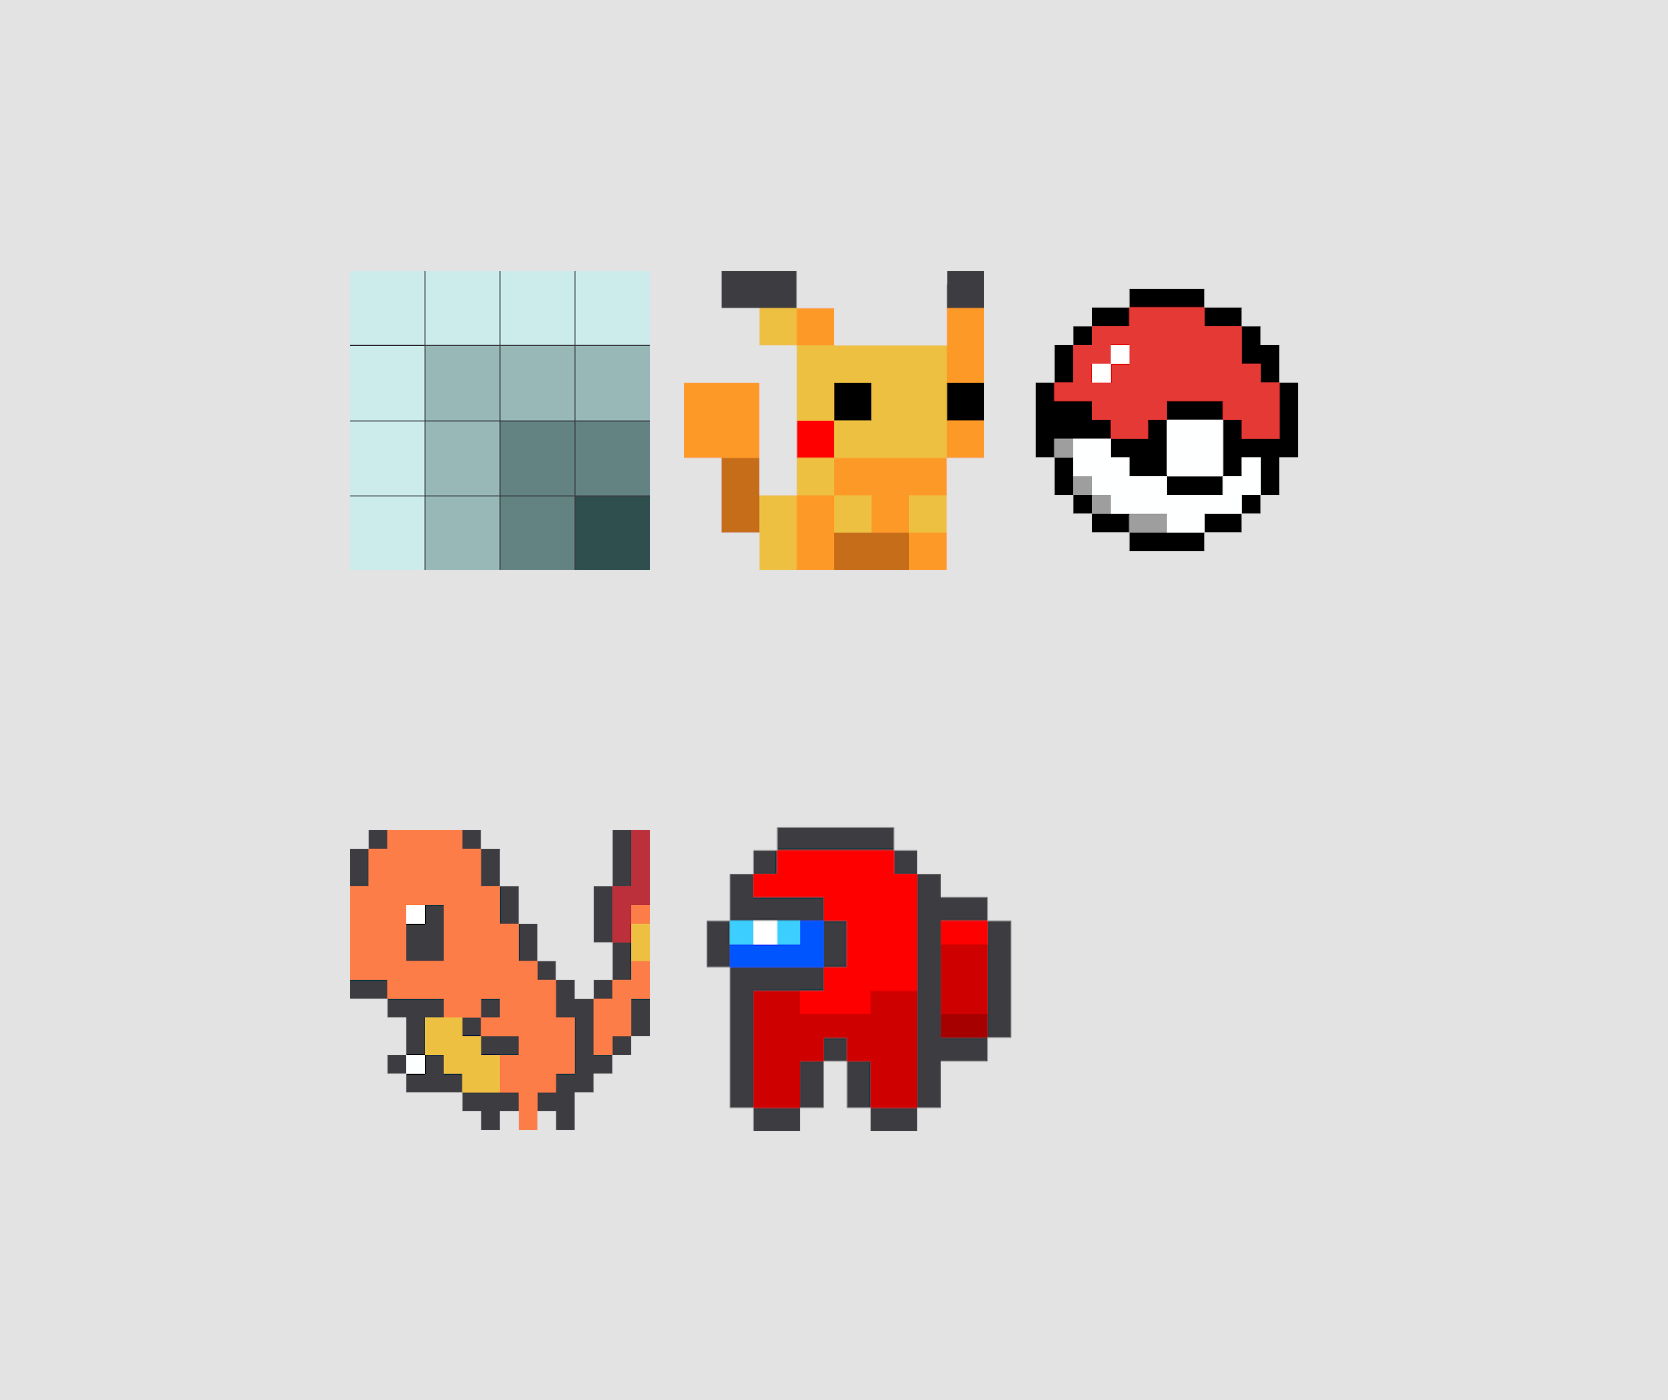
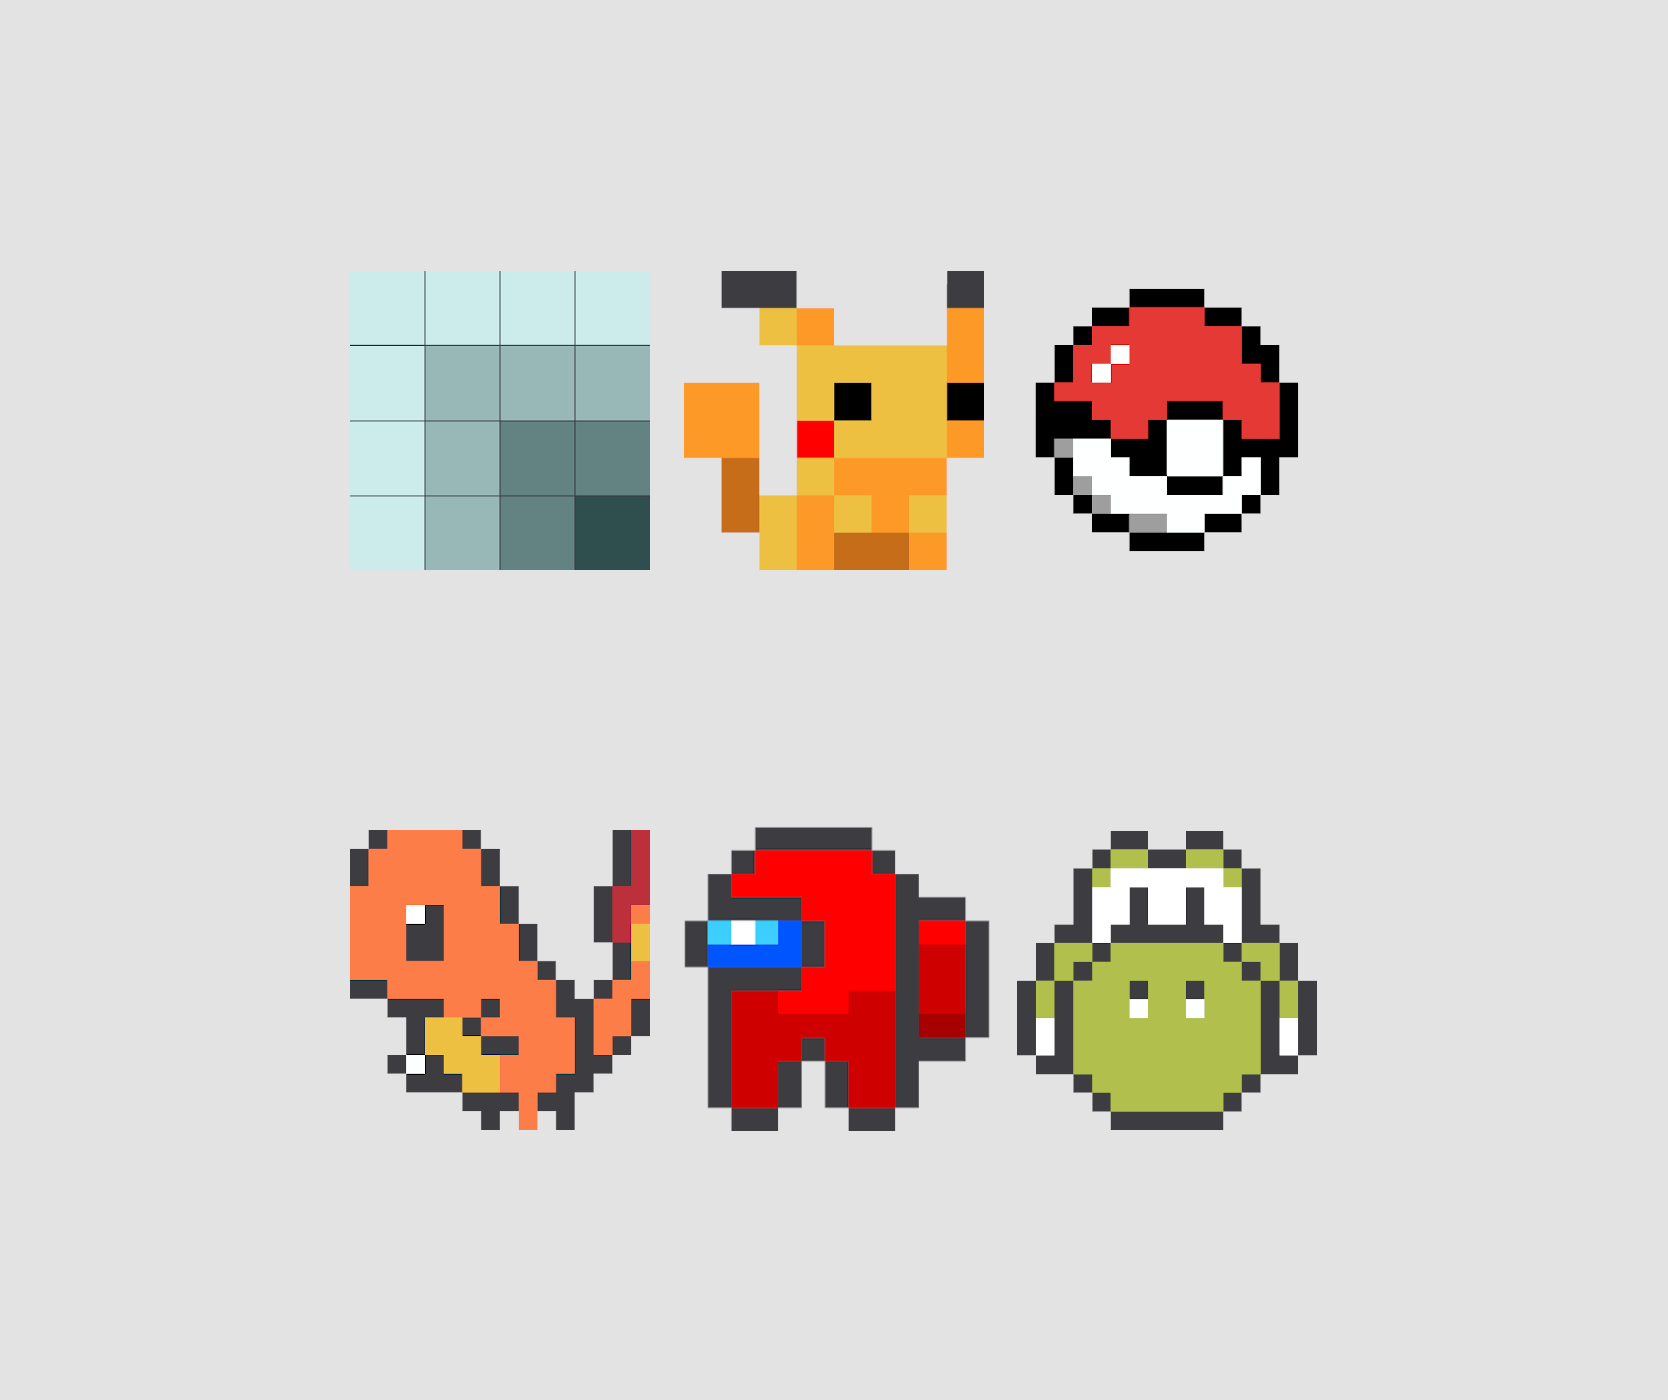
Drawing Yoshi

Changed region(s): [[0.4053, 0.5836, 0.8106, 0.8293]]

diff --git a/src/view/components/Post/6/Post6Hooks.tsx b/src/view/components/Post/6/Post6Hooks.tsx
@@ -261,6 +261,61 @@ const getBackgroundColor16x16AmongUs = (x : number, y : number) => {
     return '';
 }
 
+const getBackgroundColor16x16Yoshi = (x : number, y : number) => {
+    const whiteCoordinates = [ 
+        { x : 2, y : 5 }, { x : 2, y : 6 }, { x : 2, y : 7 }, { x : 2, y : 8 }, { x : 2, y : 9 }, { x : 2, y : 10 }, 
+        { x : 3, y : 4 }, { x : 3, y : 5 }, { x : 3, y : 7 }, { x : 3, y : 8 }, { x : 3, y : 10 }, { x : 3, y : 11 }, 
+        { x : 4, y : 4 }, { x : 4, y : 5 }, { x : 4, y : 7 }, { x : 4, y : 8 }, { x : 4, y : 10 }, { x : 4, y : 11 }, 
+        { x : 5, y : 4 }, { x : 5, y : 11 }, 
+        { x : 10, y : 1 }, { x : 10, y : 14 }, 
+        { x : 11, y : 1 }, { x : 11, y : 14 }, 
+    ];
+
+    const blackCoordinates = [ 
+        {x : 0, y: 5}, {x : 0, y: 6}, {x : 0, y: 9}, {x : 0, y: 10}, 
+        {x : 1, y: 4}, {x : 1, y: 7}, {x : 1, y: 8}, {x : 1, y: 11}, 
+        {x : 2, y: 3}, {x : 2, y: 12},
+        {x : 3, y: 3}, {x : 3, y: 6}, {x : 3, y: 9}, {x : 3, y: 12},
+        {x : 4, y: 3}, {x : 4, y: 6}, {x : 4, y: 9}, {x : 4, y: 12},
+        {x : 5, y: 2}, {x : 5, y: 3}, {x : 5, y: 5}, {x : 5, y: 6}, {x : 5, y: 7}, {x : 5, y: 8}, {x : 5, y: 9}, {x : 5, y: 10}, {x : 5, y: 12}, {x : 5, y: 13},
+        {x : 6, y: 1}, {x : 6, y: 4}, {x : 6, y: 11}, {x : 6, y: 14},
+        {x : 7, y: 1}, {x : 7, y: 3}, {x : 7, y: 12}, {x : 7, y: 14},
+        {x : 8, y: 0}, {x : 8, y: 2}, {x : 8, y: 6}, {x : 8, y: 9}, {x : 8, y: 13}, {x : 8, y: 15},
+        {x : 9, y: 0}, {x : 9, y: 2}, {x : 9, y: 13}, {x : 9, y: 15},
+        {x : 10, y: 0}, {x : 10, y: 2}, {x : 10, y: 13}, {x : 10, y: 15},
+        {x : 11, y: 0}, {x : 11, y: 2}, {x : 11, y: 13}, {x : 11, y: 15},
+        {x : 12, y: 1}, {x : 12, y: 2}, {x : 12, y: 13}, {x : 12, y: 14}, 
+        {x : 13, y: 3}, {x : 13, y: 12}, 
+        {x : 14, y: 4}, {x : 14, y: 11}, 
+        {x : 15, y: 5}, {x : 15, y: 6}, {x : 15, y: 7}, {x : 15, y: 8}, {x : 15, y: 9}, {x : 15, y: 10}
+    ];
+
+    const greenCoordinates = [ 
+        {x : 1, y: 5}, {x : 1, y: 6}, {x : 1, y: 9}, {x : 1, y: 10},
+        {x : 2, y: 4}, {x : 2, y: 11},
+        {x : 6, y: 2}, {x : 6, y: 3}, {x : 6, y: 5}, {x : 6, y: 6}, {x : 6, y: 7}, {x : 6, y: 8}, {x : 6, y: 9}, {x : 6, y: 10}, {x : 6, y: 12}, {x : 6, y: 13},
+        {x : 7, y: 2}, {x : 7, y: 4}, {x : 7, y: 5}, {x : 7, y: 6}, {x : 7, y: 7}, {x : 7, y: 8}, {x : 7, y: 9}, {x : 7, y: 10}, {x : 7, y: 11}, {x : 7, y: 13},
+        {x : 8, y: 1}, {x : 8, y: 3}, {x : 8, y: 4}, {x : 8, y: 5}, {x : 8, y: 7}, {x : 8, y: 8}, {x : 8, y: 10}, {x : 8, y: 11}, {x : 8, y: 12}, {x : 8, y: 14},
+        {x : 9, y: 1}, {x : 9, y: 3}, {x : 9, y: 4}, {x : 9, y: 5}, {x : 9, y: 7}, {x : 9, y: 8}, {x : 9, y: 10}, {x : 9, y: 11}, {x : 9, y: 12}, {x : 9, y: 14},
+        {x : 10, y: 3}, {x : 10, y: 4}, {x : 10, y: 5}, {x : 10, y: 6}, {x : 10, y: 7}, {x : 10, y: 8}, {x : 10, y: 9}, {x : 10, y: 10}, {x : 10, y: 11}, {x : 10, y: 12},
+        {x : 11, y: 3}, {x : 11, y: 4}, {x : 11, y: 5}, {x : 11, y: 6}, {x : 11, y: 7}, {x : 11, y: 8}, {x : 11, y: 9}, {x : 11, y: 10}, {x : 11, y: 11}, {x : 11, y: 12},
+        {x : 12, y: 3}, {x : 12, y: 4}, {x : 12, y: 5}, {x : 12, y: 6}, {x : 12, y: 7}, {x : 12, y: 8}, {x : 12, y: 9}, {x : 12, y: 10}, {x : 12, y: 11}, {x : 12, y: 12},
+        {x : 13, y: 4}, {x : 13, y: 5}, {x : 13, y: 6}, {x : 13, y: 7}, {x : 13, y: 8}, {x : 13, y: 9}, {x : 13, y: 10}, {x : 13, y: 11},
+        {x : 14, y: 5}, {x : 14, y: 6}, {x : 14, y: 7}, {x : 14, y: 8}, {x : 14, y: 9}, {x : 14, y: 10},
+    ];
+
+    if (isInList(x, y, whiteCoordinates)) {
+        return 'white';
+    }
+    if (isInList(x, y, blackCoordinates)) {
+        return 'var(--color-off-black)';
+    }
+    if (isInList(x, y, greenCoordinates)) {
+        return 'rgb(177,191,77)';
+    }
+    return '';
+}
+
 const getBackgroundColor32x32 = (x : number, y : number) => {
     return '';
 }
@@ -277,6 +332,8 @@ export const getBackgroundColorFunction = (drawing : Drawing) : ((x : number, y 
             return getBackgroundColor16x16Charmander;
         case Drawing.SIXTEEN_AMONG_US :
             return getBackgroundColor16x16AmongUs;
+        case Drawing.SIXTEEN_YOSHI :
+            return getBackgroundColor16x16Yoshi;
         case Drawing.THIRTYTWO :
             return getBackgroundColor32x32;
         default:
@@ -293,6 +350,7 @@ export const getSize = (drawing : Drawing) => {
         case Drawing.SIXTEEN_POKEBALL:
         case Drawing.SIXTEEN_CHARMANDER:
         case Drawing.SIXTEEN_AMONG_US:
+        case Drawing.SIXTEEN_YOSHI:
             return 16;
         case Drawing.THIRTYTWO:
             return 32;

diff --git a/src/view/components/Post/6/French.tsx b/src/view/components/Post/6/French.tsx
@@ -14,6 +14,7 @@ export enum Drawing {
     SIXTEEN_POKEBALL = 'pokeball',
     SIXTEEN_CHARMANDER = 'charmander',
     SIXTEEN_AMONG_US = 'among-us',
+    SIXTEEN_YOSHI = 'yoshi',
     THIRTYTWO = 'thirty-two'
 }
 
@@ -44,6 +45,7 @@ const French : React.FC<IPostContentProps> = props => {
     const pokeballIsUnselectedClassname = drawing != Drawing.SIXTEEN_POKEBALL ? 'unselected' : '';
     const charmanderIsUnselectedClassname = drawing != Drawing.SIXTEEN_CHARMANDER ? 'unselected' : '';
     const amongUsIsUnselectedClassname = drawing != Drawing.SIXTEEN_AMONG_US ? 'unselected' : '';
+    const yoshiIsUnselectedClassname = drawing != Drawing.SIXTEEN_YOSHI ? 'unselected' : '';
     const fourIsUnselectedClassname = drawing != Drawing.FOUR ? 'unselected' : '';
     const pikachuIsUnselectedClassname = drawing != Drawing.EIGHT_PIKACHU ? 'unselected' : '';
 
@@ -90,6 +92,7 @@ const French : React.FC<IPostContentProps> = props => {
                     <div onClick={() => onClickSizeDrawing(16, Drawing.SIXTEEN_POKEBALL)} className={`icon-button pokeball ${pokeballIsUnselectedClassname}`}/>
                     <div onClick={() => onClickSizeDrawing(16, Drawing.SIXTEEN_CHARMANDER)} className={`icon-button charmander ${charmanderIsUnselectedClassname}`}/>
                     <div onClick={() => onClickSizeDrawing(16, Drawing.SIXTEEN_AMONG_US)} className={`icon-button among-us ${amongUsIsUnselectedClassname}`}/>
+                    <div onClick={() => onClickSizeDrawing(16, Drawing.SIXTEEN_YOSHI)} className={`icon-button yoshi ${yoshiIsUnselectedClassname}`}/>
                 </div>
             </div>
 

diff --git a/src/view/components/Post/6/PostPage.scss b/src/view/components/Post/6/PostPage.scss
@@ -49,6 +49,10 @@
                             }
                             &.among-us {
                                 background-image: url(./images/among-us-icon.png);
+                                margin-right: var(--size-margin-30);
+                            }
+                            &.yoshi {
+                                background-image: url(./images/yoshi-icon.png);
                             }
                             &.four {
                                 background-image: url(./images/four-icon.png);
